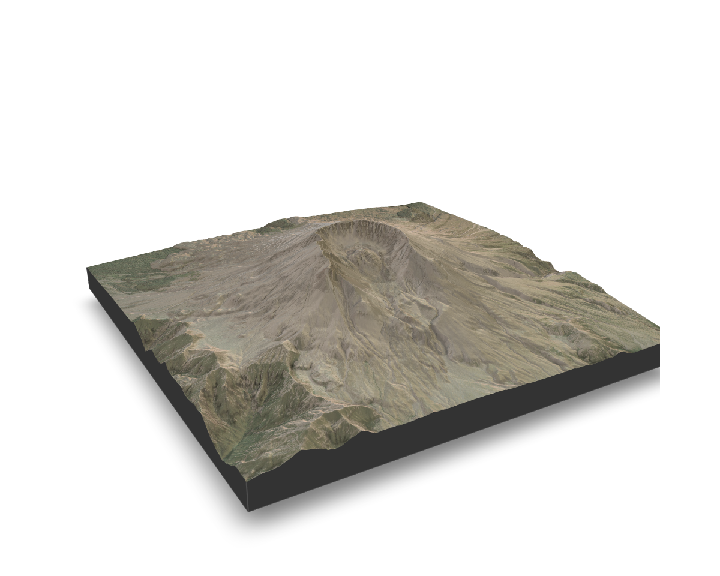
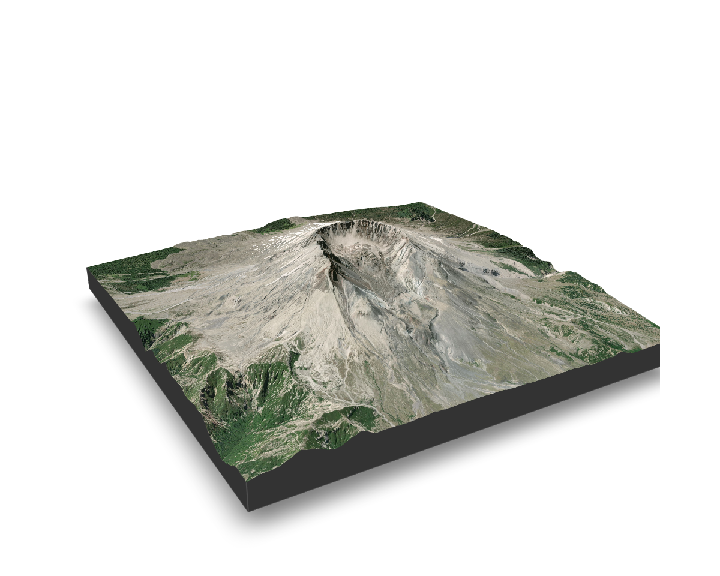
README update

Changed region(s): [[0.1222, 0.3438, 0.9167, 0.8438]]

diff --git a/README.md b/README.md
@@ -36,7 +36,7 @@ get_canvas(). An Extent object can be produced and be used with
     get_canvas()  # retrieves the extent and crs parameters if required for additional steps... - Done
     canvasExtent() # get an object of class Extent for using in other {rayshader} functions - Done
 
-**Data:** Now you can use {aytrix} to warp raster data from online or
+**Data:** Now you can use {raytrix} to warp raster data from online or
 on-disk sources using the awesome
 [{vapour}](https://hypertidy.github.io/vapour/) package. These functions
 enable the retrieval of topographic (or other single band raster) and
@@ -60,21 +60,24 @@ set_canvas_centroid(.lat, .long, radius = 7000)
 get_canvas()$extent
 
 tc <- topo_matrix(25, src='aws')
-ov <- map_drape(5, src='wms_virtualearth', alpha=0.4, resample = 'CubicSpline')
+ov <- map_drape(5, src='wms_virtualearth', resample = 'CubicSpline')
 
-texture <- tc %>%
-  sphere_shade(texture='imhof4')%>%
-  add_overlay(., ov,rescale_original=T) %>%
-  add_shadow(ray_shade(tc, zscale=7, sunangle=175, multicore = T), 0.5) %>%
+# plot without shading
+plot_3d(ov, tc, zscale=25*0.75,  windowsize = 1000,
+        theta=150, phi=25, zoom=0.7, fov=50)
+render_snapshot()
+rgl::rgl.close()
+# build in rayshader shading tools
+texture <- ov %>%
+  add_shadow(ray_shade(tc, zscale=25*0.75, sunangle=30, sunaltitude= 25,
+                       multicore = T), 0.05) %>%
   add_shadow(texture_shade(tc, detail=0.8, contrast = 10, brightness = 15),0)
+
 plot_3d(texture, tc, zscale=25*0.75,  windowsize = 1000,
         theta=150, phi=25, zoom=0.7, fov=50)
 
 render_snapshot()
-```
-
-![](man/figures/MtStHelens-1.png)<!-- -->
-
-``` r
 rgl::rgl.close()
 ```
+
+<img src="man/figures/MtStHelens-1.png" style="display: block; margin: auto;" /><img src="man/figures/MtStHelens-2.png" style="display: block; margin: auto;" />
